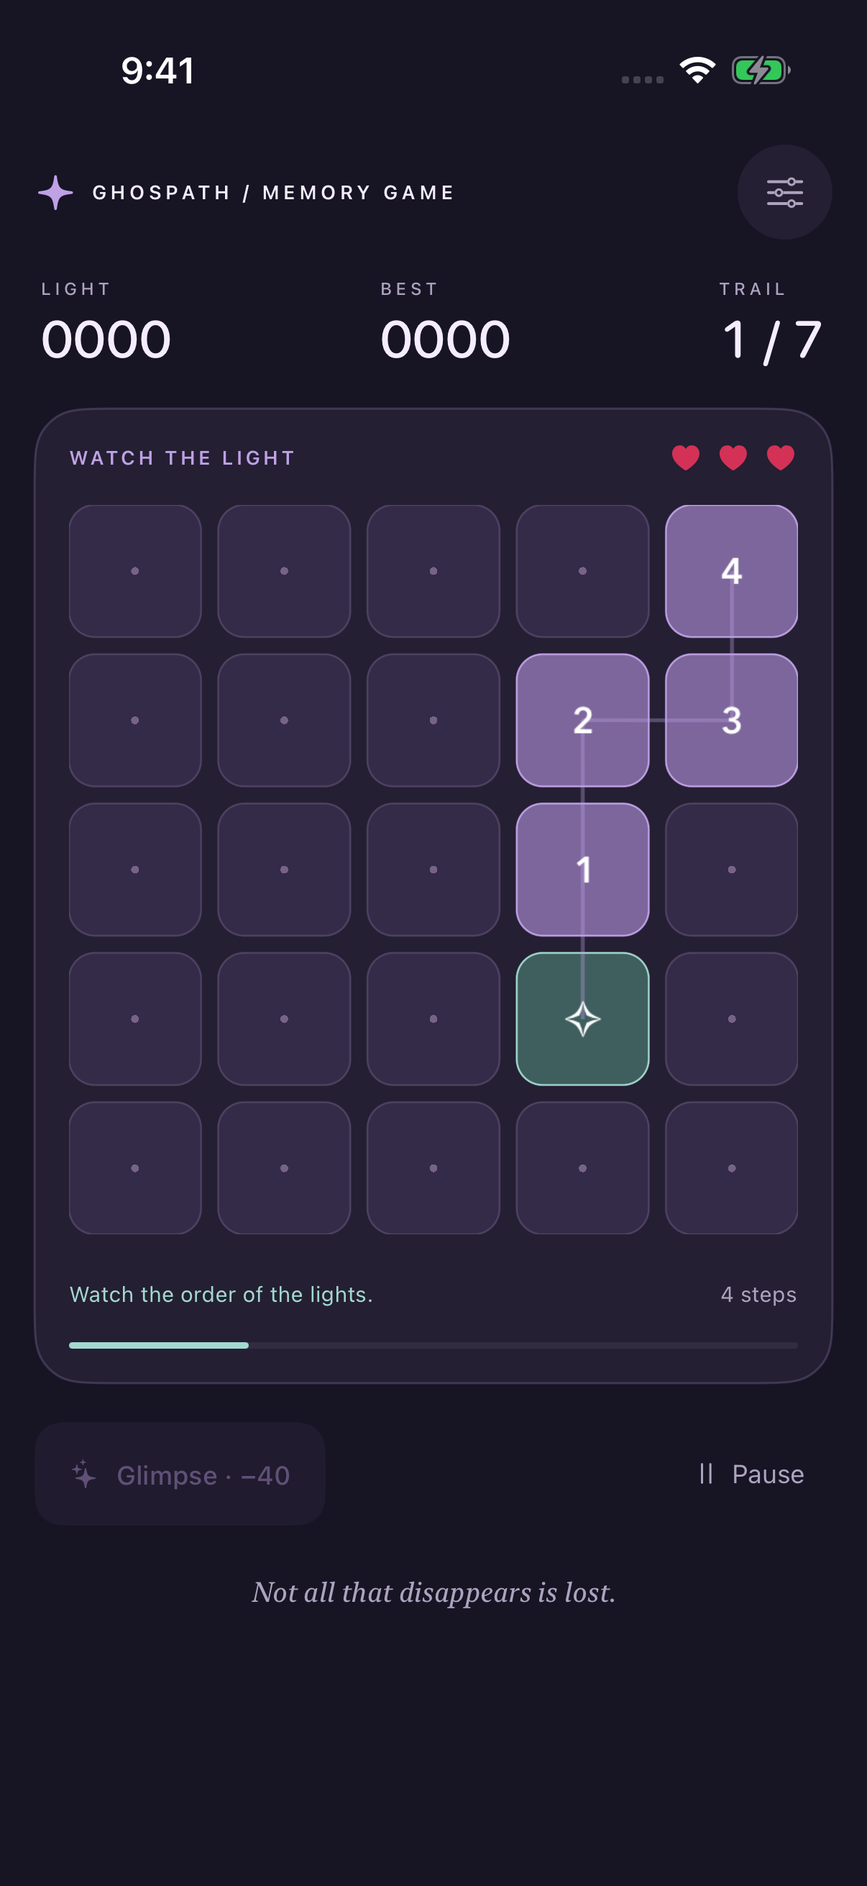
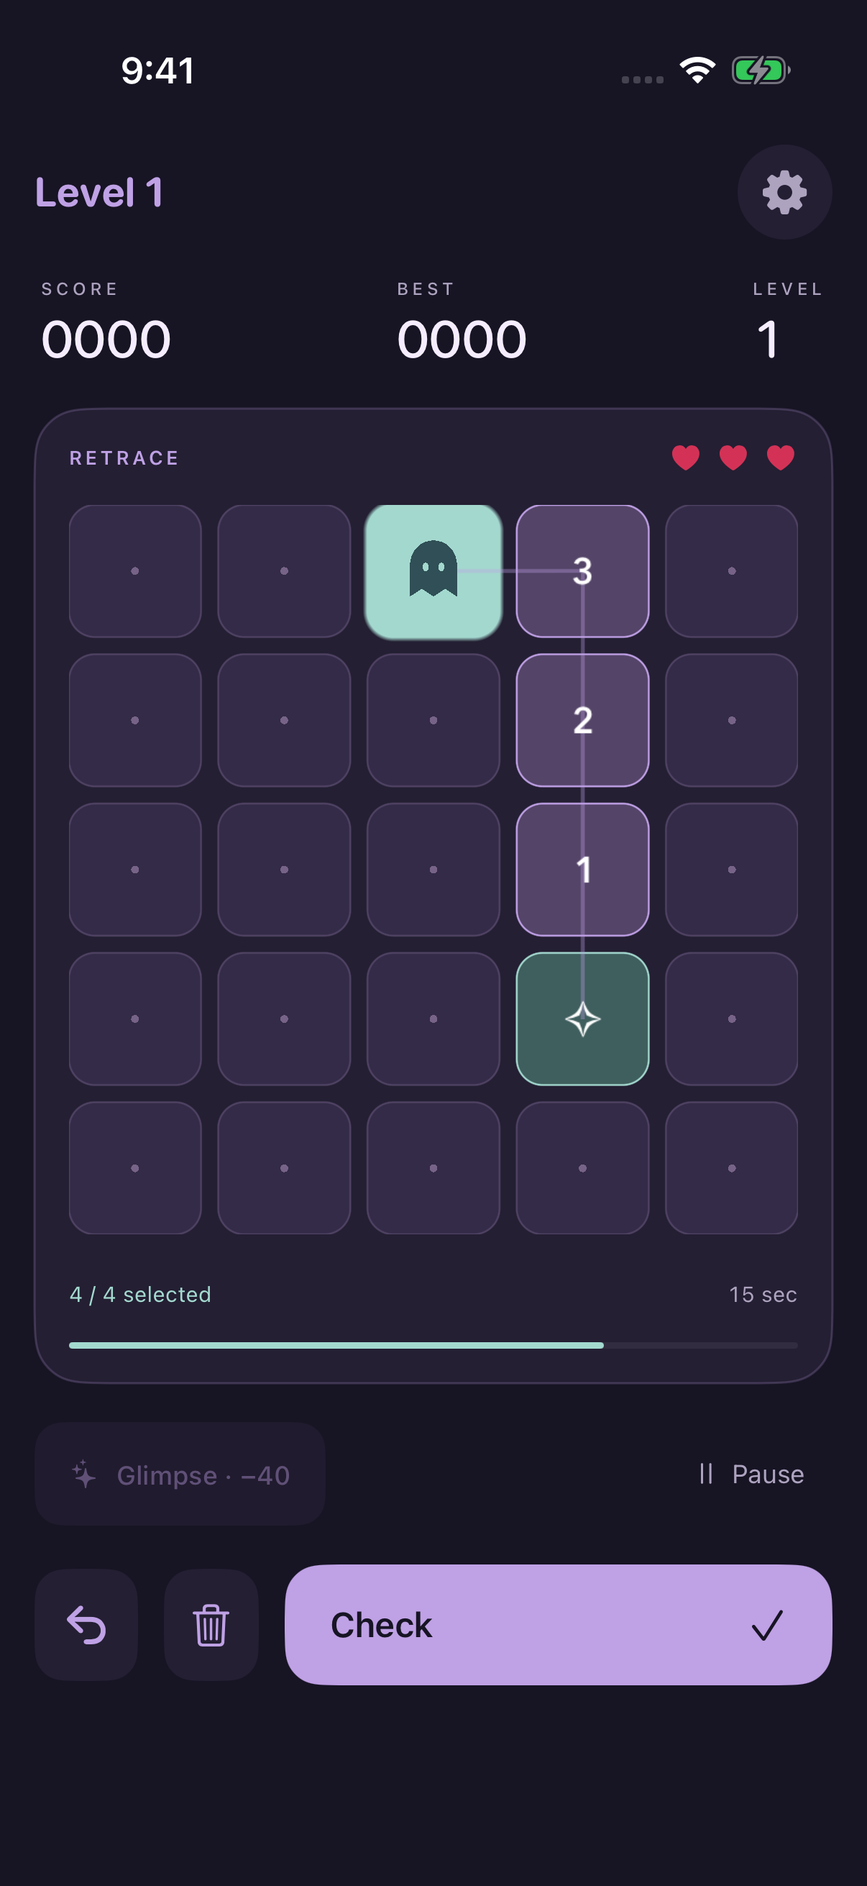
Update Ghostpath site for endless full-route gameplay

diff --git a/index.html b/index.html
@@ -1,12 +1,12 @@
-<!doctype html><html lang="en"><head><meta charset="utf-8"><meta name="viewport" content="width=device-width,initial-scale=1"><meta name="theme-color" content="#f6f2ea"><title>Ghospath | Memory Game — A little light to remember</title><meta name="description" content="Watch a path light up, remember the turns, and find your way back. Ghospath is a thoughtful memory game made for iPhone."><meta property="og:title" content="Ghospath | Memory Game"><meta property="og:description" content="Seven trails. Three hearts. A little light to remember. Made for iPhone."><meta property="og:type" content="website"><link rel="icon" href="assets/app-icon.png"><link rel="apple-touch-icon" href="assets/app-icon.png"><link rel="stylesheet" href="assets/styles.css"></head><body>
+<!doctype html><html lang="en"><head><meta charset="utf-8"><meta name="viewport" content="width=device-width,initial-scale=1"><meta name="theme-color" content="#f6f2ea"><title>Ghospath | Memory Game — A little light to remember</title><meta name="description" content="Watch a path light up, remember the turns, and find your way back. Ghospath is a thoughtful memory game made for iPhone."><meta property="og:title" content="Ghospath | Memory Game"><meta property="og:description" content="Endless trails. Three hearts. A little light to remember. Made for iPhone."><meta property="og:type" content="website"><link rel="icon" href="assets/app-icon.png"><link rel="apple-touch-icon" href="assets/app-icon.png"><link rel="stylesheet" href="assets/styles.css"></head><body>
 <a class="skip" href="#main">Skip to content</a><header class="header wrap"><a class="brand" href="index.html"><img src="assets/app-icon.png" alt="" width="37" height="37">Ghospath</a><nav class="nav" aria-label="Main navigation"><a class="how-link" href="#how-to-play">The game</a><a href="support.html">Support</a><a href="privacy.html">Privacy</a></nav></header>
-<main id="main" class="wrap"><section class="hero"><div><p class="eyebrow">A memory game for iPhone</p><h1>Here for<br>a moment.<br><em>Yours to<br>remember.</em></h1><p class="lede">A little ghost. A trail of light. Watch the path appear, hold its shape in your mind, and find your way back after it fades.</p><a class="button" href="#how-to-play">Follow the light <span aria-hidden="true">↘</span></a><p class="hero-note">SEVEN TRAILS. THREE HEARTS. ONE MORE TRY.</p></div><div class="phone-stage"><span class="float-star" aria-hidden="true">✧</span><div class="phone"><img src="assets/gameplay.png" width="1206" height="2622" fetchpriority="high" alt="The native Ghospath iPhone game showing a numbered path of lavender tiles, a mint starting tile, and the glimpse control."></div><div class="sticker" aria-hidden="true">A little<br>faith in your<br>memory.</div></div></section>
+<main id="main" class="wrap"><section class="hero"><div><p class="eyebrow">A memory game for iPhone</p><h1>Here for<br>a moment.<br><em>Yours to<br>remember.</em></h1><p class="lede">A little ghost. A trail of light. Watch the path appear, hold its shape in your mind, and find your way back after it fades.</p><a class="button" href="#how-to-play">Follow the light <span aria-hidden="true">↘</span></a><p class="hero-note">ENDLESS TRAILS. THREE HEARTS. ONE MORE TRY.</p></div><div class="phone-stage"><span class="float-star" aria-hidden="true">✧</span><div class="phone"><img src="assets/gameplay.png" width="1206" height="2622" fetchpriority="high" alt="The native Ghospath iPhone game with a complete selected route and Check button, plus Undo, Clear, and Glimpse controls."></div><div class="sticker" aria-hidden="true">A little<br>faith in your<br>memory.</div></div></section>
 <div class="ribbon"><span>Made for iPhone</span><span>Play offline</span><span>A fresh path every journey</span></div>
 <section class="section" id="how-to-play"><div class="section-head"><div><p class="eyebrow">The art of finding your way</p><h2>Watch. Remember.<br><em>Return.</em></h2></div><p>Simple enough to begin in a moment. Just enough challenge to make the next journey feel worth taking.</p></div><div class="cards">
 <article class="card"><span class="card-num">01 / WATCH</span><svg viewBox="0 0 250 130" aria-hidden="true"><g fill="#e4d8ed" stroke="#b6a2c9"><rect x="25" y="67" width="47" height="47" rx="9"/><rect x="83" y="67" width="47" height="47" rx="9"/><rect x="83" y="9" width="47" height="47" rx="9"/><rect x="141" y="9" width="47" height="47" rx="9"/></g><path d="M49 90h58V33h58" fill="none" stroke="#aa8bc4" stroke-width="2"/><g fill="#715388" font-family="system-ui" font-size="13" text-anchor="middle"><text x="49" y="95">✧</text><text x="107" y="95">1</text><text x="107" y="38">2</text><text x="165" y="38">3</text></g><path d="m212 65 5 11 11 5-11 5-5 11-5-11-11-5 11-5Z" fill="#aec8b8"/></svg><h3>Catch a little light.</h3><p>A numbered trail appears one tile at a time. Notice the shape, the corners, and the order before it slips away.</p></article>
-<article class="card"><span class="card-num">02 / REMEMBER</span><svg viewBox="0 0 250 130" aria-hidden="true"><g fill="#e5ddea" stroke="#c1b3ce"><rect x="29" y="13" width="48" height="48" rx="9"/><rect x="88" y="13" width="48" height="48" rx="9"/><rect x="147" y="13" width="48" height="48" rx="9"/><rect x="29" y="72" width="48" height="48" rx="9"/><rect x="88" y="72" width="48" height="48" rx="9"/><rect x="147" y="72" width="48" height="48" rx="9"/></g><rect x="29" y="72" width="48" height="48" rx="9" fill="#bdd8cb"/><path d="M42 110V94a11 11 0 0 1 22 0v16l-6-4-5 4-5-4-6 4Z" fill="#6d887e"/><g fill="#e8f6ed"><ellipse cx="49" cy="95" rx="1.5" ry="2"/><ellipse cx="57" cy="95" rx="1.5" ry="2"/></g></svg><h3>Trust the turns.</h3><p>Start at the mint tile and tap each next step. Move up, down, left, or right. Correct steps earn points; wrong turns cost a heart.</p></article>
-<article class="card"><span class="card-num">03 / RETURN</span><svg viewBox="0 0 250 130" aria-hidden="true"><circle cx="125" cy="64" r="44" fill="#dbe5d6"/><path d="m125 25 10 28 29 11-29 10-10 29-10-29-29-10 29-11Z" fill="#9f86b8"/><path d="m187 29 4 10 10 4-10 4-4 10-4-10-10-4 10-4Z" fill="#b7ccae"/><text x="44" y="107" fill="#7d7089" font-family="Georgia" font-style="italic" font-size="18">one more look</text></svg><h3>Find your way again.</h3><p>Spend 40 earned points for a second glimpse. Your timer pauses while you look. Finish all seven trails for a satisfying journey bonus.</p></article>
+<article class="card"><span class="card-num">02 / REMEMBER</span><svg viewBox="0 0 250 130" aria-hidden="true"><g fill="#e5ddea" stroke="#c1b3ce"><rect x="29" y="13" width="48" height="48" rx="9"/><rect x="88" y="13" width="48" height="48" rx="9"/><rect x="147" y="13" width="48" height="48" rx="9"/><rect x="29" y="72" width="48" height="48" rx="9"/><rect x="88" y="72" width="48" height="48" rx="9"/><rect x="147" y="72" width="48" height="48" rx="9"/></g><rect x="29" y="72" width="48" height="48" rx="9" fill="#bdd8cb"/><path d="M42 110V94a11 11 0 0 1 22 0v16l-6-4-5 4-5-4-6 4Z" fill="#6d887e"/><g fill="#e8f6ed"><ellipse cx="49" cy="95" rx="1.5" ry="2"/><ellipse cx="57" cy="95" rx="1.5" ry="2"/></g></svg><h3>Trust the turns.</h3><p>Start at the mint tile and tap each next step. Move up, down, left, or right. Build the full route, then tap Check. Undo or clear to edit before submitting.</p></article>
+<article class="card"><span class="card-num">03 / RETURN</span><svg viewBox="0 0 250 130" aria-hidden="true"><circle cx="125" cy="64" r="44" fill="#dbe5d6"/><path d="m125 25 10 28 29 11-29 10-10 29-10-29-29-10 29-11Z" fill="#9f86b8"/><path d="m187 29 4 10 10 4-10 4-4 10-4-10-10-4 10-4Z" fill="#b7ccae"/><text x="44" y="107" fill="#7d7089" font-family="Georgia" font-style="italic" font-size="18">one more look</text></svg><h3>Find your way again.</h3><p>Spend 40 earned points for a second glimpse. Your timer pauses while you look. Submit correct routes to keep climbing through harder levels.</p></article>
 </div></section>
-<section class="section quiet"><div><p class="eyebrow">A moment to yourself</p><h2>Small journeys.<br><em>Lasting little victories.</em></h2><p>Longer paths give your memory a little more to hold. Clean trails and quick recall grow your score, while every new journey draws a different route.</p><p>No account, no ads, no analytics. Just you and the next turn.</p></div><ul class="features"><li><span>01</span><div><strong>Take it anywhere.</strong><p>The whole game works offline. Your best score stays on your iPhone.</p></div></li><li><span>02</span><div><strong>A softer kind of feedback.</strong><p>Gentle sound, optional haptics, and small bursts of light make each remembered step feel good.</p></div></li><li><span>03</span><div><strong>Make room for quiet.</strong><p>Sound respects Silent Mode. Reduce effects for a calmer screen.</p></div></li><li><span>04</span><div><strong>Life can interrupt.</strong><p>Leave the app and the journey pauses. Return when you’re ready, then tap to resume.</p></div></li></ul></section>
+<section class="section quiet"><div><p class="eyebrow">A moment to yourself</p><h2>Small journeys.<br><em>Lasting little victories.</em></h2><p>Longer paths give your memory a little more to hold. Correct submissions and quick recall grow your score, while every new journey draws a different route.</p><p>No account, no ads, no analytics. Just you and the next turn.</p></div><ul class="features"><li><span>01</span><div><strong>Take it anywhere.</strong><p>The whole game works offline. Your best score stays on your iPhone.</p></div></li><li><span>02</span><div><strong>A softer kind of feedback.</strong><p>Gentle sound, optional haptics, and small bursts of light make each remembered step feel good.</p></div></li><li><span>03</span><div><strong>Make room for quiet.</strong><p>Sound respects Silent Mode. Reduce effects for a calmer screen.</p></div></li><li><span>04</span><div><strong>Life can interrupt.</strong><p>Leave the app and the journey pauses. Return when you’re ready, then tap to resume.</p></div></li></ul></section>
 <aside class="closing"><div><h2>Not all that disappears is lost.</h2><p>Ghospath | Memory Game · Made for iPhone, iOS 17 or later.</p></div><a href="support.html">A little help, if you need it ↗</a></aside></main>
 <footer class="footer wrap"><span>© 2026 Debugger Society. All rights reserved.</span><div><a href="index.html" aria-current="page">The game</a><a href="support.html">Support</a><a href="privacy.html">Privacy</a></div></footer></body></html>

diff --git a/privacy.html b/privacy.html
@@ -1,1 +1,1 @@
-<!doctype html><html lang="en"><head><meta charset="utf-8"><meta name="viewport" content="width=device-width,initial-scale=1"><meta name="theme-color" content="#f6f2ea"><title>Privacy policy — Ghospath</title><meta name="description" content="How Ghospath handles locally saved scores, settings, support emails, and website privacy."><link rel="icon" href="assets/app-icon.png"><link rel="stylesheet" href="assets/styles.css"></head><body><a class="skip" href="#main">Skip to content</a><header class="header wrap"><a class="brand" href="index.html"><img src="assets/app-icon.png" alt="" width="37" height="37">Ghospath</a><nav class="nav" aria-label="Main navigation"><a class="how-link" href="index.html#how-to-play">The game</a><a href="support.html">Support</a><a href="privacy.html" aria-current="page">Privacy</a></nav></header><main id="main" class="wrap"><div class="doc-head"><p class="eyebrow">A clear little promise</p><h1>Your game.<br><em>Your own space.</em></h1><p class="lede">Ghospath does not collect data from the app. Your scores and settings stay on your device.</p><p class="date">Privacy policy · Effective September 11, 2026</p></div><div class="doc-layout"><nav class="doc-nav" aria-label="Policy sections"><a href="#app">The app</a><a href="#ads">Ads & tracking</a><a href="#support">Support messages</a><a href="#website">This website</a><a href="#contact">Contact</a></nav><div class="doc-content"><section id="app"><h2>A game that stays on your iPhone.</h2><p>Ghospath | Memory Game, provided by Debugger Society, works offline without an account. The app saves your best score and preferences, including sound, haptics, and reduced effects, using local storage on your device. It does not transmit this information to us.</p><p>Scores do not sync between devices. Deleting the app removes its local data. There is no server-side player profile to delete, and we cannot recover a score that was never sent to us.</p></section><section id="ads"><h2>No advertising or tracking.</h2><p>The app contains no advertising, analytics, tracking, or third-party SDKs. It does not request access to contacts, photos, location, a microphone, or advertising identifiers.</p></section><section id="support"><h2>If you choose to email us.</h2><p>When you contact support, we receive your email address and the information you choose to send, such as your message, device details, or a screenshot. We use that correspondence to respond and troubleshoot. This is separate from the game, which does not automatically send us information.</p><p>We retain support correspondence only as long as reasonably needed to address your request or meet legal obligations. You may request deletion by emailing <a href="mailto:debuggersociety@zohomail.com">debuggersociety@zohomail.com</a>.</p></section><section id="website"><h2>About this website.</h2><p>This site does not set its own cookies or include analytics, advertising scripts, or contact forms. Its pages and images are served as static files. When hosted on GitHub Pages, the hosting provider may process technical request information, such as IP addresses, to deliver and secure the site under its own privacy policy.</p></section><section id="contact"><h2>Questions are welcome.</h2><p>For privacy questions or requests, contact <a href="mailto:debuggersociety@zohomail.com">debuggersociety@zohomail.com</a>.</p><p>If the app’s behavior changes, this policy will be updated to describe the new version.</p></section></div></div></main><footer class="footer wrap"><span>© 2026 Debugger Society. All rights reserved.</span><div><a href="index.html">The game</a><a href="support.html">Support</a><a href="privacy.html" aria-current="page">Privacy</a></div></footer></body></html>
+<!doctype html><html lang="en"><head><meta charset="utf-8"><meta name="viewport" content="width=device-width,initial-scale=1"><meta name="theme-color" content="#f6f2ea"><title>Privacy policy — Ghospath</title><meta name="description" content="How Ghospath handles locally saved scores, settings, support emails, and website privacy."><link rel="icon" href="assets/app-icon.png"><link rel="stylesheet" href="assets/styles.css"></head><body><a class="skip" href="#main">Skip to content</a><header class="header wrap"><a class="brand" href="index.html"><img src="assets/app-icon.png" alt="" width="37" height="37">Ghospath</a><nav class="nav" aria-label="Main navigation"><a class="how-link" href="index.html#how-to-play">The game</a><a href="support.html">Support</a><a href="privacy.html" aria-current="page">Privacy</a></nav></header><main id="main" class="wrap"><div class="doc-head"><p class="eyebrow">A clear little promise</p><h1>Your game.<br><em>Your own space.</em></h1><p class="lede">Ghospath does not collect data from the app. Your scores and settings stay on your device.</p><p class="date">Privacy policy · Effective September 13, 2026</p></div><div class="doc-layout"><nav class="doc-nav" aria-label="Policy sections"><a href="#app">The app</a><a href="#ads">Ads & tracking</a><a href="#support">Support messages</a><a href="#website">This website</a><a href="#contact">Contact</a></nav><div class="doc-content"><section id="app"><h2>A game that stays on your iPhone.</h2><p>Ghospath | Memory Game, provided by Debugger Society, works offline without an account. The app saves your best score and preferences, including sound, haptics, and reduced effects, using local storage on your device. Local playtime, submission counts, and dates of review requests are also stored to schedule occasional system rating prompts. It does not transmit this information to us.</p><p>Scores do not sync between devices. Deleting the app removes its local data. There is no server-side player profile to delete, and we cannot recover a score that was never sent to us.</p></section><section id="ads"><h2>No advertising or tracking.</h2><p>The app contains no advertising, analytics, tracking, or third-party SDKs. It does not request access to contacts, photos, location, a microphone, or advertising identifiers.</p></section><section id="support"><h2>If you choose to email us.</h2><p>When you contact support, we receive your email address and the information you choose to send, such as your message, device details, or a screenshot. We use that correspondence to respond and troubleshoot. This is separate from the game, which does not automatically send us information.</p><p>We retain support correspondence only as long as reasonably needed to address your request or meet legal obligations. You may request deletion by emailing <a href="mailto:debuggersociety@zohomail.com">debuggersociety@zohomail.com</a>.</p></section><section id="website"><h2>About this website.</h2><p>This site does not set its own cookies or include analytics, advertising scripts, or contact forms. Its pages and images are served as static files. When hosted on GitHub Pages, the hosting provider may process technical request information, such as IP addresses, to deliver and secure the site under its own privacy policy.</p></section><section id="contact"><h2>Questions are welcome.</h2><p>For privacy questions or requests, contact <a href="mailto:debuggersociety@zohomail.com">debuggersociety@zohomail.com</a>.</p><p>If the app’s behavior changes, this policy will be updated to describe the new version.</p></section></div></div></main><footer class="footer wrap"><span>© 2026 Debugger Society. All rights reserved.</span><div><a href="index.html">The game</a><a href="support.html">Support</a><a href="privacy.html" aria-current="page">Privacy</a></div></footer></body></html>

diff --git a/support.html b/support.html
@@ -1,8 +1,8 @@
 <!doctype html><html lang="en"><head><meta charset="utf-8"><meta name="viewport" content="width=device-width,initial-scale=1"><meta name="theme-color" content="#f6f2ea"><title>Support & how to play — Ghospath</title><meta name="description" content="Get help with Ghospath for iPhone. Learn the rules, understand scoring and glimpses, and contact Debugger Society."><link rel="icon" href="assets/app-icon.png"><link rel="stylesheet" href="assets/styles.css"></head><body><a class="skip" href="#main">Skip to content</a><header class="header wrap"><a class="brand" href="index.html"><img src="assets/app-icon.png" alt="" width="37" height="37">Ghospath</a><nav class="nav" aria-label="Main navigation"><a class="how-link" href="index.html#how-to-play">The game</a><a href="support.html" aria-current="page">Support</a><a href="privacy.html">Privacy</a></nav></header><main id="main" class="wrap"><div class="doc-head"><p class="eyebrow">You don’t have to find every answer alone</p><h1>A little help.<br><em>A clearer path.</em></h1><p class="lede">A question, a bug, or an idea for the next journey? We’d be glad to hear from you.</p></div><div class="support-layout"><aside class="contact-card"><h2>Leave us a note.</h2><p>For help with Ghospath | Memory Game, contact Debugger Society directly.</p><a class="button" href="mailto:debuggersociety@zohomail.com?subject=Ghospath%20support">Email support <span aria-hidden="true">↗</span></a><p class="email"><a href="mailto:debuggersociety@zohomail.com">debuggersociety@zohomail.com</a></p><p>For a bug report, include your iPhone model, iOS version, app version, and what happened. A screenshot can help. Please leave out sensitive information.</p></aside><section class="faq" aria-labelledby="faq-title"><h2 id="faq-title">Good questions.</h2>
-<details><summary>How do I play?</summary><p>Tap Follow the light. Watch the numbered route appear, then retrace it from the mint starting tile. Tap the next tile in order; moves go up, down, left, or right. The paths get longer across seven trails. Finish all seven, or begin a fresh journey after losing three hearts.</p></details>
-<details><summary>How do points work?</summary><p>Each correct step earns 10 points. Finishing a trail earns 60 points plus 2 points per whole second remaining. A trail with no mistakes or glimpses earns another 40 points. Consecutive clean trails add 15, 30, then up to 45 points. Completing the seventh trail adds a 200-point journey bonus.</p></details>
-<details><summary>What does another glimpse cost?</summary><p>A glimpse costs 40 points you have already earned. It reveals the full route for 2.2 seconds while your recall timer pauses. You continue from your current tile afterward. Using a glimpse breaks your clean-trail streak. The button is unavailable when you have fewer than 40 points.</p></details>
-<details><summary>What happens if I make a mistake or run out of time?</summary><p>A wrong adjacent tile costs one heart, but you stay on your last correct tile. Tapping a distant tile does not move you. Running out of time also costs a heart; if you have hearts left, the route is shown again and the recall timer resets. Three lost hearts end the journey.</p></details>
+<details><summary>How do I play?</summary><p>Tap Play. Watch the numbered route appear, then retrace it from the mint starting tile. Select the whole route in order, then tap Check. Moves go up, down, left, or right without revisiting a tile. Undo and Clear let you edit before submission. Levels continue until you lose three hearts; paths grow to 21 moves and reveals get faster.</p></details>
+<details><summary>How do points work?</summary><p>Only a completely correct submitted route earns points: 10 per move. Finishing a level adds 60 points plus 2 points per whole second remaining. A trail with no mistakes or glimpses earns another 40 points. Consecutive clean trails add 15, 30, then up to 45 points. There is no final level or completion bonus.</p></details>
+<details><summary>What does another glimpse cost?</summary><p>A glimpse costs 40 points you have already earned. It reveals the full route for 2.2 seconds while your recall timer pauses. Your unsubmitted answer is preserved afterward. Using a glimpse breaks your clean-trail streak. The button is unavailable when you have fewer than 40 points.</p></details>
+<details><summary>What happens if I make a mistake or run out of time?</summary><p>Selecting a tile never tells you whether it is correct and never removes a heart. A wrong complete submission costs one heart. Running out of time also costs a heart. If hearts remain, the correct route appears briefly before a fresh path starts at the same level. Three lost hearts end the journey.</p></details>
 <details><summary>Why can’t I hear the game?</summary><p>Check Sound in the app’s settings, your iPhone’s media volume, and Silent Mode. Ghospath respects Silent Mode and pauses for audio interruptions. Haptics are optional and depend on supported hardware.</p></details>
 <details><summary>Where are my score and settings saved?</summary><p>They are stored locally on your iPhone and remain when you close and reopen the app. They do not sync between devices. Deleting the app removes its local data. An unfinished journey starts over if the app is fully closed; simply switching away pauses it.</p></details>
 <details><summary>Do I need internet, an account, or a subscription?</summary><p>No. The game works offline, has no sign-in, no ads, and no in-app purchases or subscriptions. Emailing support uses your mail app and an internet connection.</p></details>

diff --git a/README.md b/README.md
@@ -8,3 +8,5 @@ To publish with GitHub Pages, push this repository to the chosen GitHub reposito
 
 Pages: `index.html`, `privacy.html`, `support.html`.
 Support: debuggersociety@zohomail.com.
+
+September 13, 2026: Updated for build 2’s endless levels, full-route Check, Undo/Clear, fresh paths after mistakes, and local review-request counters. Verified at 320, 390, and 1440px.
